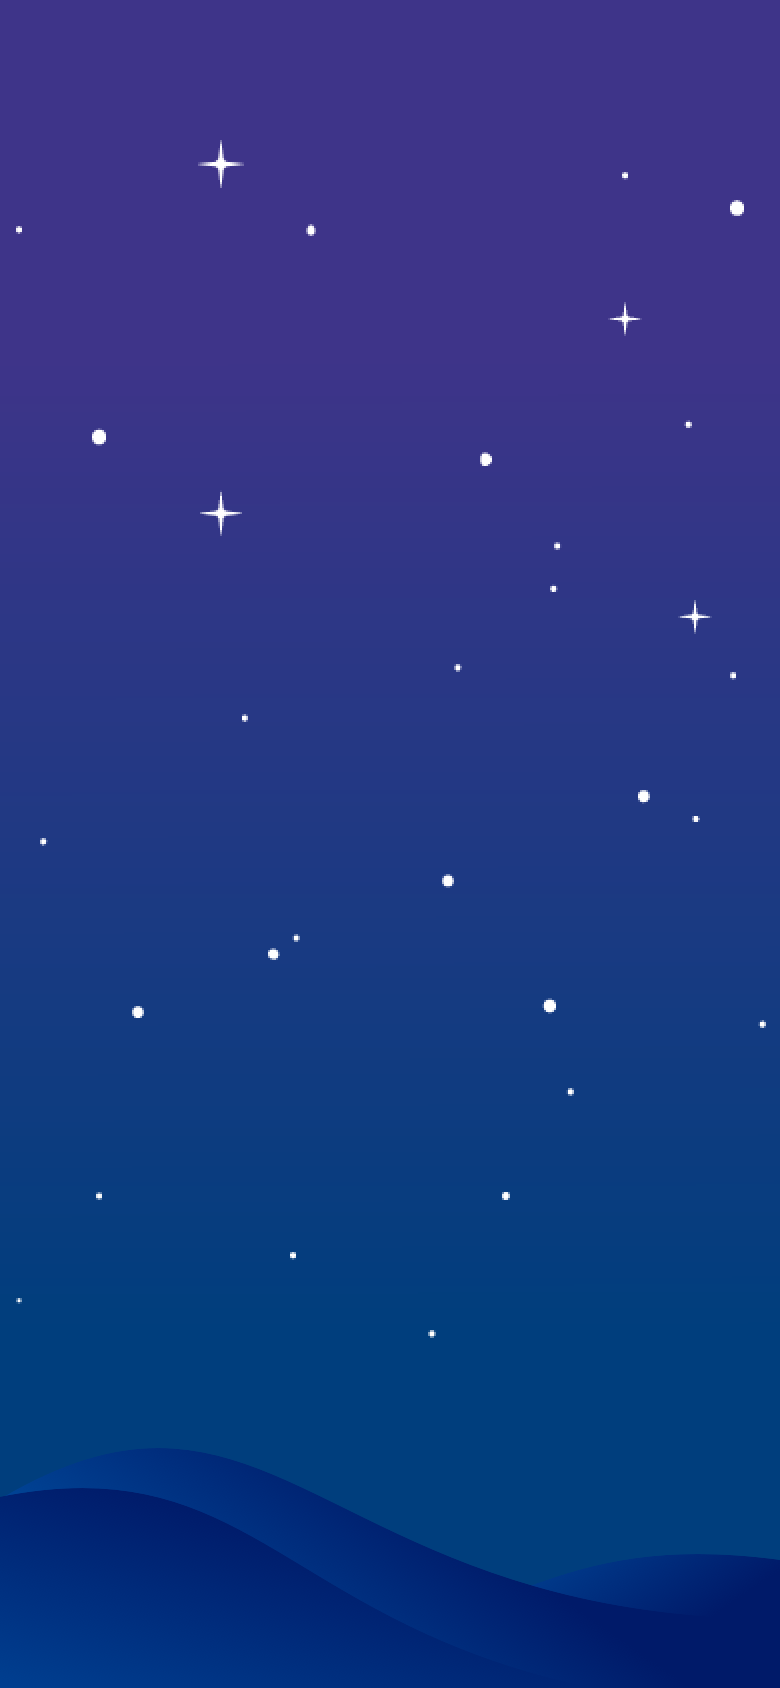
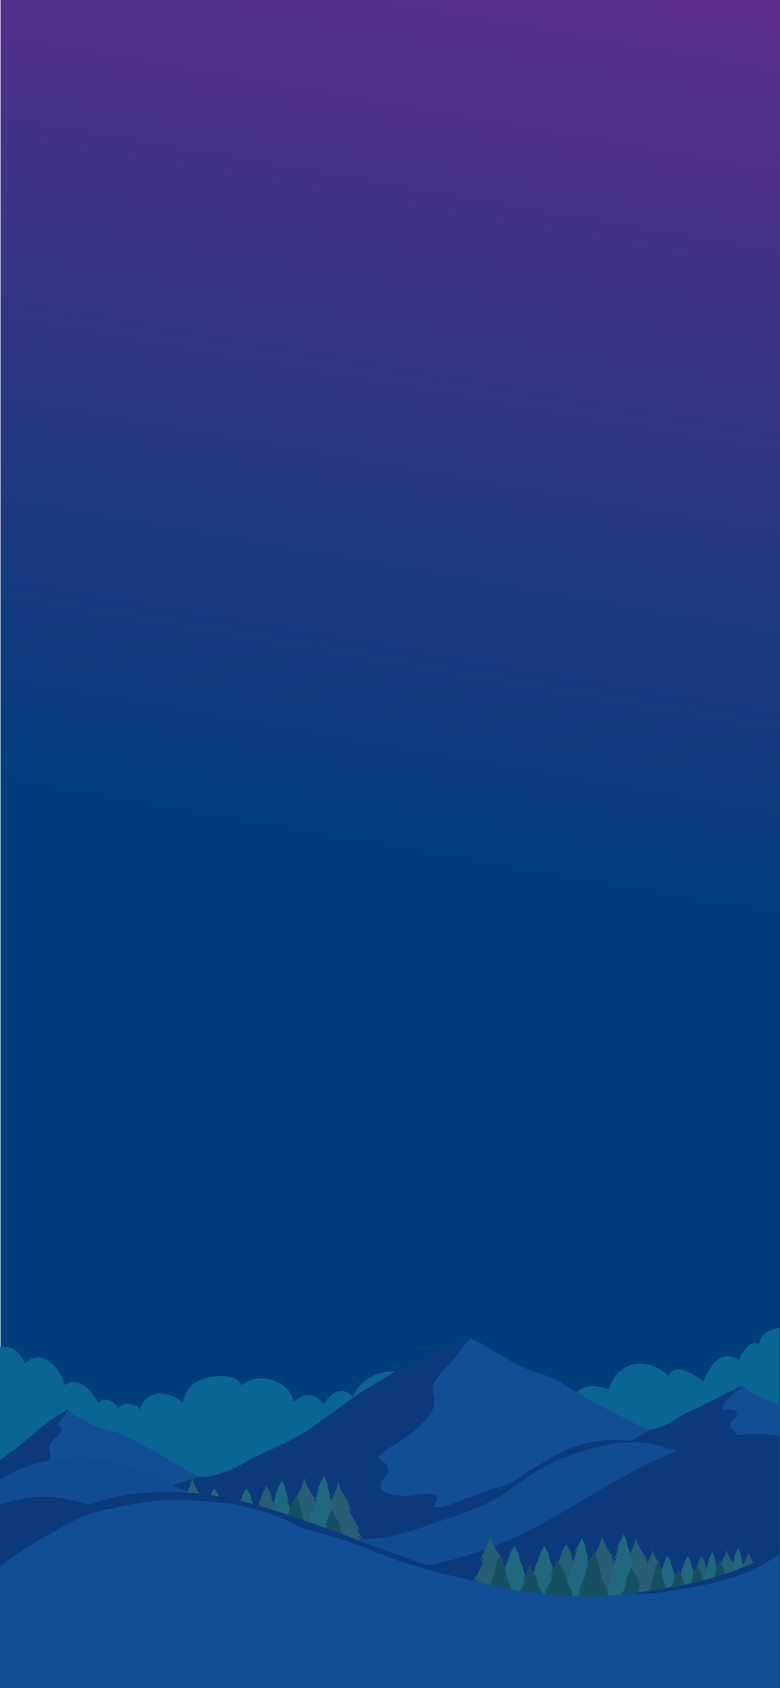
style : lottie-splash

diff --git a/NearCatch/Views/ContentView.swift b/NearCatch/Views/ContentView.swift
@@ -19,14 +19,18 @@ struct ContentView: View {
             HomeView()
             
             if !isContentReady {
-                LottieView(jsonName: "NearCatStanding")
-                    .background(Color.white.edgesIgnoringSafeArea(.all))
+                
+                Color.white.ignoresSafeArea(.all)
+                
+                LottieView(jsonName: "Splash")
+                    .frame(width: 120)
                     .transition(.opacity)
+                
             }
             
         }
         .onAppear{
-            DispatchQueue.main.asyncAfter(deadline: .now() + 2, execute: {withAnimation{isContentReady.toggle()}
+            DispatchQueue.main.asyncAfter(deadline: .now() + 3, execute: {withAnimation{isContentReady.toggle()}
             })
         }
     }

diff --git a/NearCatch/Views/Home/Components/HomeMainButton.swift b/NearCatch/Views/Home/Components/HomeMainButton.swift
@@ -43,6 +43,7 @@ struct HomeMainButton: View {
                     if state == .ready {
                         LottieView(jsonName: "NearCatStanding")
                             .frame(height: 230)
+                            .offset(y: 10)
                         
                     } else {
                         LottieView(jsonName: "Star", loopMode: .loop)

diff --git a/NearCatch/Views/Home/HomeView.swift b/NearCatch/Views/Home/HomeView.swift
@@ -18,7 +18,7 @@ struct HomeView: View {
     var body: some View {
         NavigationView{
             ZStack() {
-                Image("img_basicbackground")
+                Image("img_background")
                     .resizable()
                     .ignoresSafeArea()
                 
